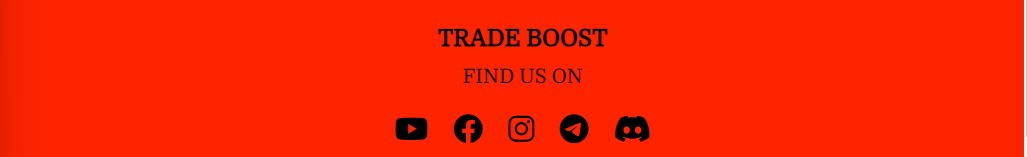
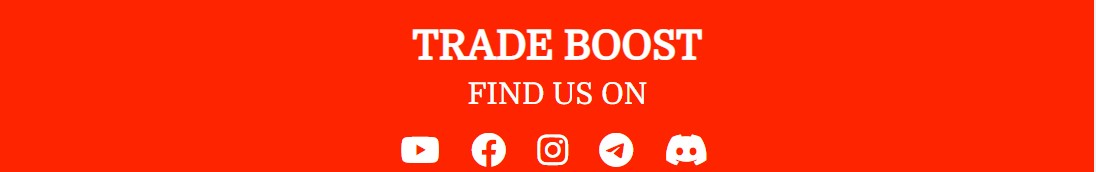
Add updated image of the Footer section to README.md

diff --git a/README.md b/README.md
@@ -81,10 +81,6 @@ For example: if you are in the home page, the **Home** section changes to a diff
 
 <img src="assets/images/footer.jpg">
 
-#### Footer Section with cursor hovered over a social media link
-
-<img src="assets/images/footer-hover.jpg">
-
 **The third is the Hero Image section**, this is the third common structure. Each page has the same hero image that is displayed underneath of the navigation bar. 
 
 There will be text written inside of each hero image, for example:
